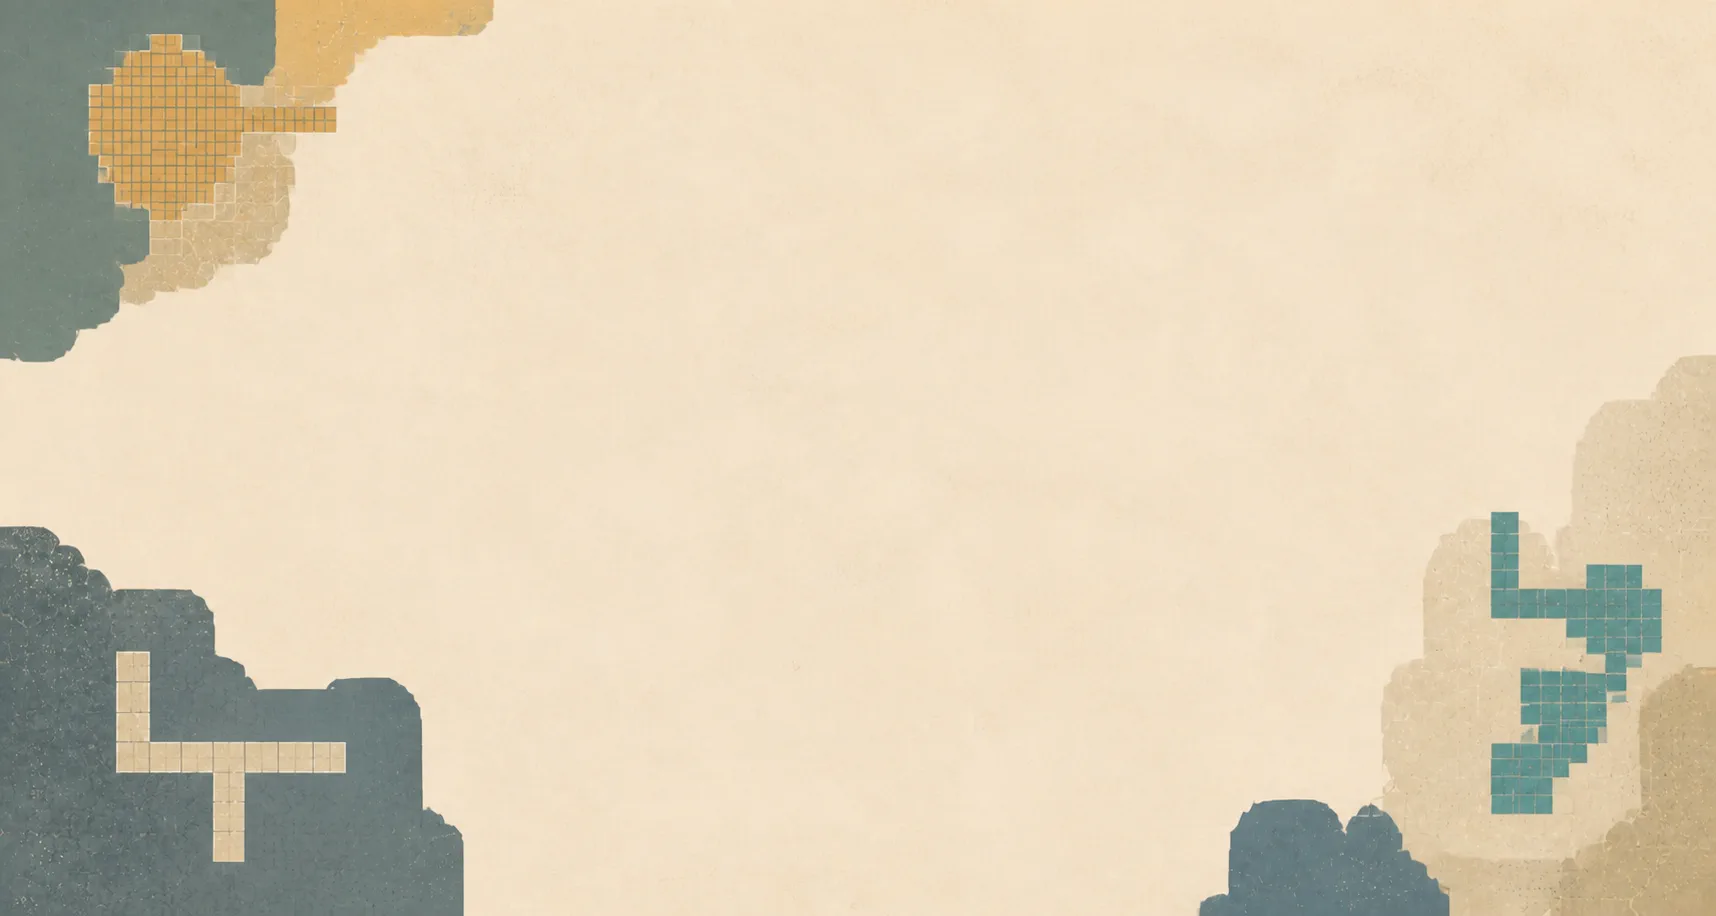
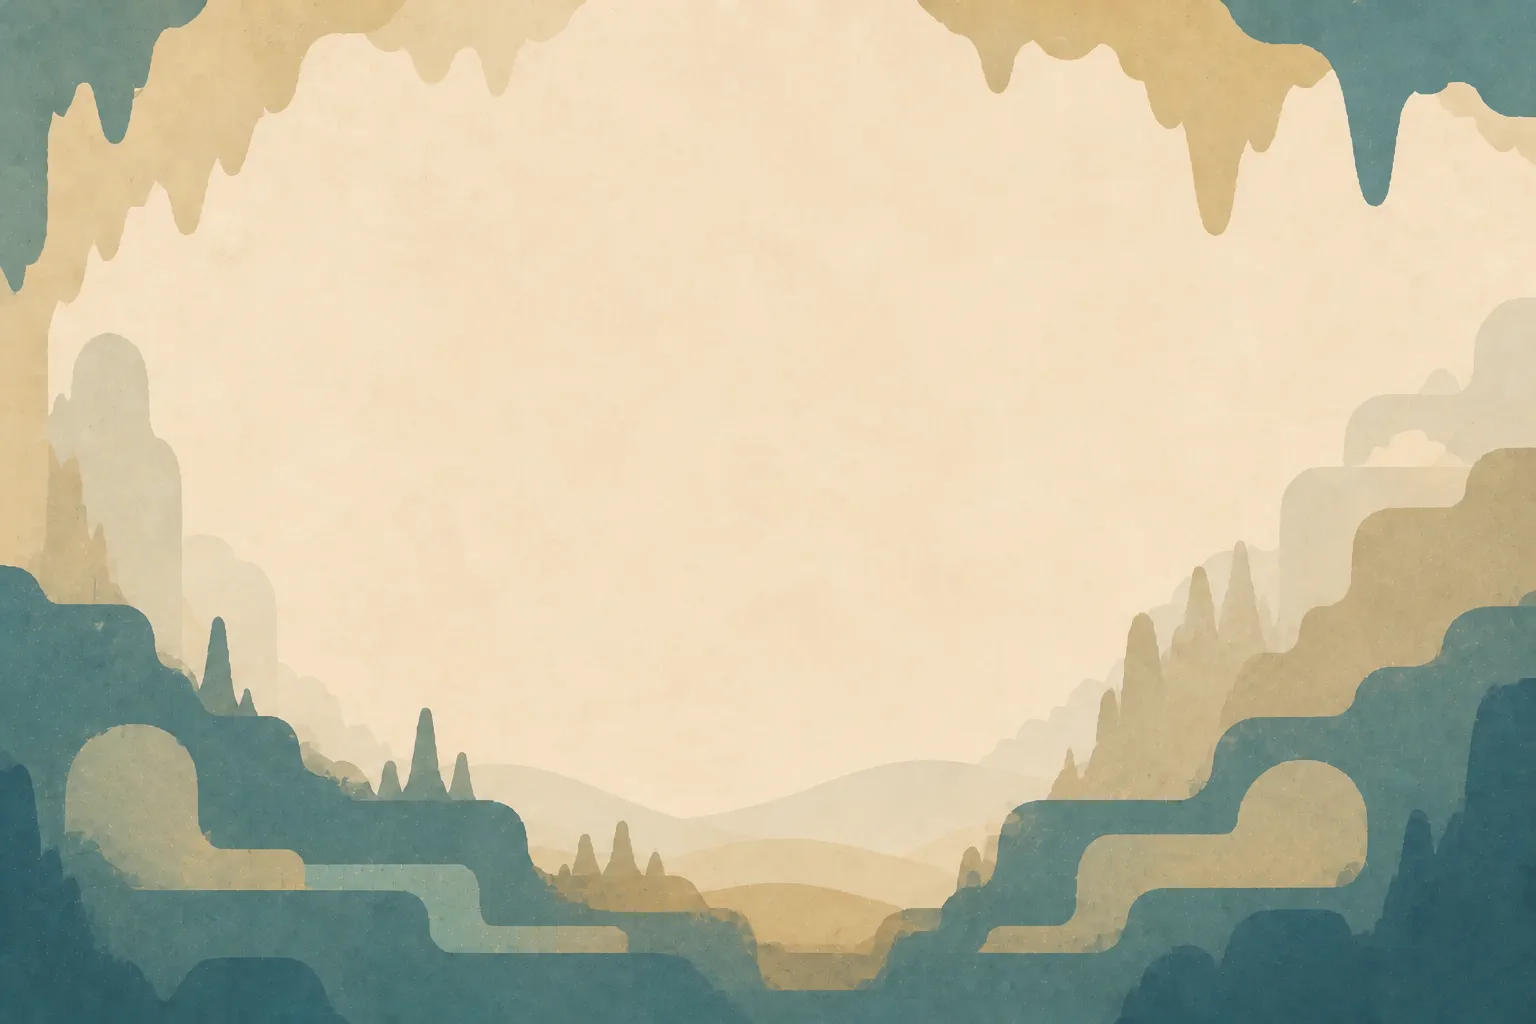
Refine Extra wallpaper and color identity

diff --git a/public/styles.css b/public/styles.css
@@ -178,21 +178,21 @@ img {
 }
 
 .section-page--extra {
-  --paper-light: #fffaf0;
-  --ink: #153034;
-  --ink-soft: #4a615e;
-  --green: #2f6c61;
-  --green-dark: #1d5149;
-  --mint: #cbdccf;
-  --mint-light: #e3ece1;
-  --sky: #9ebfc0;
-  --sky-light: #d9e7e3;
-  --coral: #d77839;
-  --coral-dark: #8b3e1f;
-  --sun: #e4b654;
-  --line: #9cafaa;
-  --shadow: #153034;
-  background: #c9dbd2;
+  --paper-light: #fff8ec;
+  --ink: #1b2b33;
+  --ink-soft: #566169;
+  --green: #3d6474;
+  --green-dark: #294f5f;
+  --mint: #dccfba;
+  --mint-light: #efe5d2;
+  --sky: #a8bbc5;
+  --sky-light: #d8e1e4;
+  --coral: #c96838;
+  --coral-dark: #84401f;
+  --sun: #e7ba58;
+  --line: #aea28f;
+  --shadow: #1b2b33;
+  background: #d9c7aa;
   color: var(--ink);
 }
 
@@ -2026,13 +2026,13 @@ body:not([data-section="projects"]) .scene-hotspot > span {
 
 [data-extra-project-panel="project-1"] .extra-stage {
   background-image:
-    linear-gradient(rgba(255, 250, 240, 0.06), rgba(255, 250, 240, 0.06)),
+    linear-gradient(rgba(255, 248, 236, 0.28), rgba(255, 248, 236, 0.28)),
     url("assets/wallpapers/extra-surreal-landscape.webp");
 }
 
 [data-extra-project-panel="project-2"] .extra-stage {
   background-image:
-    linear-gradient(rgba(255, 250, 240, 0.08), rgba(255, 250, 240, 0.08)),
+    linear-gradient(rgba(255, 248, 236, 0.28), rgba(255, 248, 236, 0.28)),
     url("assets/wallpapers/extra-cave-workshop.webp");
 }
 
@@ -2282,21 +2282,21 @@ body:not([data-section="projects"]) .scene-hotspot > span {
 }
 
 .extra-proof-body {
-  border-left-color: #718f89;
-  color: #d5e4df;
+  border-left-color: #71838b;
+  color: #d5e0e3;
 }
 
 .extra-evidence-grid {
   display: grid;
   grid-template-columns: repeat(2, minmax(0, 1fr));
   margin: 0;
-  border: 1px solid #718f89;
+  border: 1px solid #71838b;
 }
 
 .extra-evidence-grid > div {
   min-width: 0;
   padding: clamp(0.7rem, 1.8vh, 1rem);
-  border-right: 1px solid #718f89;
+  border-right: 1px solid #71838b;
 }
 
 .extra-evidence-grid > div:nth-child(2n) {
@@ -2304,7 +2304,7 @@ body:not([data-section="projects"]) .scene-hotspot > span {
 }
 
 .extra-evidence-grid > div:nth-child(n + 3) {
-  border-top: 1px solid #718f89;
+  border-top: 1px solid #71838b;
 }
 
 .extra-evidence-grid dt {
@@ -2316,7 +2316,7 @@ body:not([data-section="projects"]) .scene-hotspot > span {
 
 .extra-evidence-grid dd {
   margin: 0.35rem 0 0;
-  color: #edf3ef;
+  color: #eef2f0;
   font-size: 0.82rem;
   line-height: 1.4;
 }
